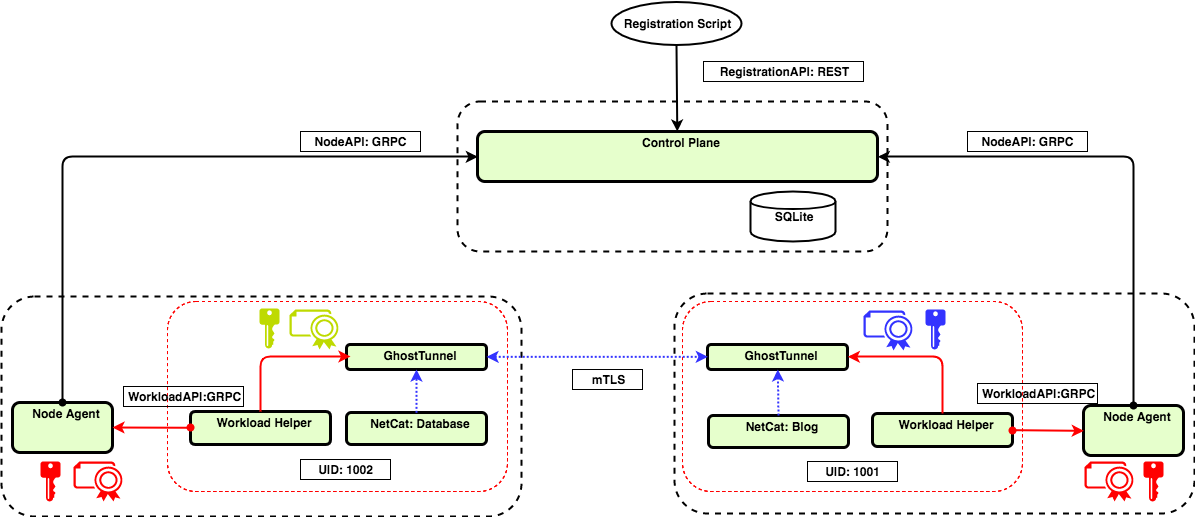
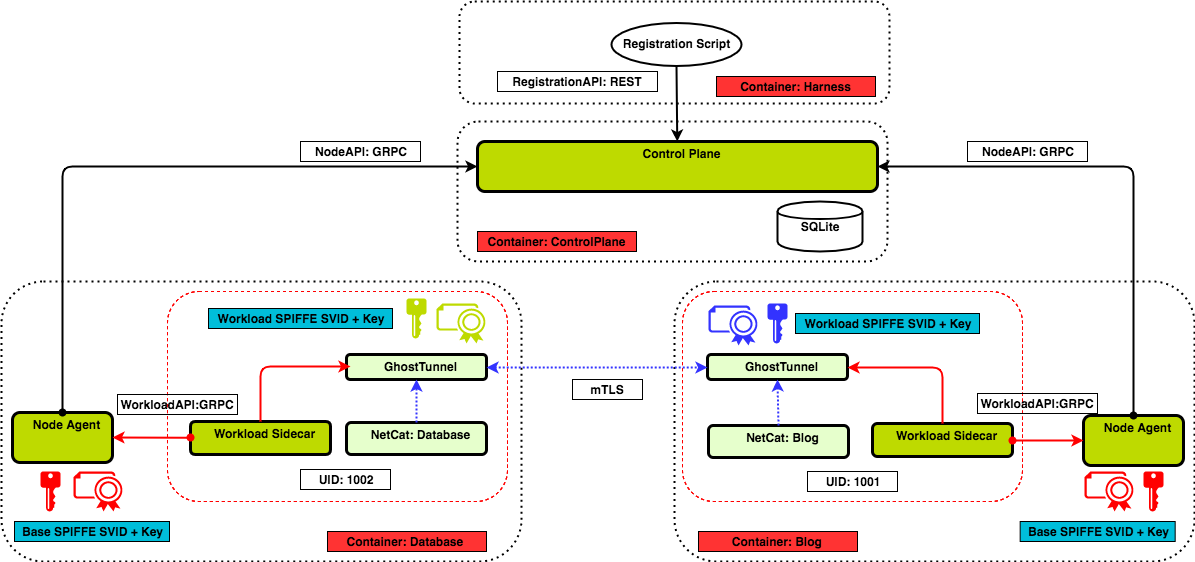
Fixing diagram
Update the diagram with new layout

Changed region(s): [[0.0, 0.0, 1.0, 1.0], [0.9908, 0.5261, 1.0, 0.7118], [0.9598, 0.4952, 0.9908, 0.5261]]

diff --git a/rosemary/README.md b/rosemary/README.md
@@ -30,27 +30,23 @@ One container has a [Control Plane](https://github.com/spiffe/control-plane) wit
 
 There is one entry per node. In both cases there is a single selector of type 'Token', and the parent is the Control Plane.
 
-```bash 
-selectors: Token/TokenBlog  
-spiffe_id: spiffe://dev.rexsco.com/spiffe/node-id/TokenBlog  
-parent_id: spiffe://dev.rexsco.com/spiffe/cp  
+| Selectors | SPIFFE ID | PARENT ID |
+| :--------: | :--------: | :--------: |
+| Token/TokenBlog  |  spiffe://dev.rexsco.com/spiffe/node-id/TokenBlog | spiffe://dev.rexsco.com/spiffe/cp |  
+| Token/TokenDatabase | spiffe://dev.rexsco.com/spiffe/node-id/TokenDatabase | spiffe://dev.rexsco.com/spiffe/cp |  
 
-selectors: Token/TokenDatabase  
-spiffe_id: spiffe://dev.rexsco.com/spiffe/node-id/TokenDatabase  
-parent_id: spiffe://dev.rexsco.com/spiffe/cp  
-```
 
 #### Workloads registration entries
 
 There is also one entry per workload. In both cases there are two selectors: type 'hash' and 'uid', and the parent is its corresponding node.
 
-selectors: hash/hashstring, uid/1001  
-spiffe_id: spiffe://dev.rexsco.com/Blog  
-parent_id: spiffe://dev.rexsco.com/spiffe/node-id/TokenBlog  
-  
-selectors: hash/hashstring, uid/1001  
-spiffe_id: spiffe://dev.rexsco.com/Database  
-parent_id: spiffe://dev.rexsco.com/spiffe/node-id/TokenDatabase  
+
+
+
+| Selectors | SPIFFE ID | PARENT ID |
+| :--------: | :--------: | :--------: |
+| hash/hashstring, uid/1001  | spiffe://dev.rexsco.com/Blog  | spiffe://dev.rexsco.com/spiffe/node-id/TokenBlog |  
+| hash/hashstring, uid/1001  | spiffe://dev.rexsco.com/Database   | spiffe://dev.rexsco.com/spiffe/node-id/TokenDatabase |  
 
 
 ## Details
